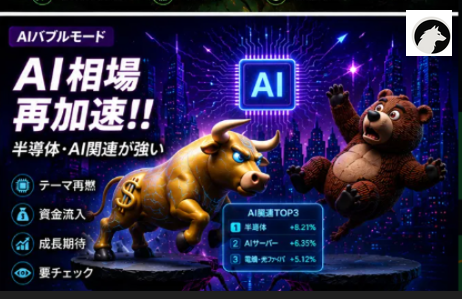
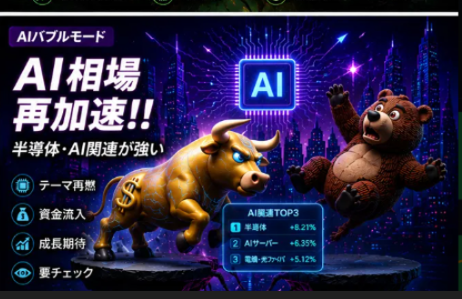
feat: 値動きが大きい日はロゴを特別演出にする
banner画像は元の状態(ロゴなし)に戻し、代わりにgenerate_banner()で
実行時にロゴを合成する方式に変更。通常は右上に小さく表示、日経の
値動きが±3%以上の日だけロゴを大きく・グローさせた特別版にする
(「オオカミがたまに参加している」演出)。

Changed region(s): [[0.8788, 0.0301, 1.0, 0.2107]]

diff --git a/scripts/morning_briefing.py b/scripts/morning_briefing.py
@@ -23,7 +23,7 @@ matplotlib.use("Agg")
 import matplotlib.pyplot as plt
 import matplotlib.font_manager as fm
 from matplotlib.gridspec import GridSpec
-from PIL import Image, ImageDraw, ImageFont
+from PIL import Image, ImageDraw, ImageFont, ImageFilter
  
 # Constants
 JST     = timezone(timedelta(hours=9))
@@ -634,6 +634,32 @@ def generate_chart(data, mode):
  
  
 
+LOGO_PATH = "public/logo.png"
+
+
+def _composite_logo(im, special):
+    """バナー右上にかぶぼっちの狼ロゴを合成する。special=Trueの日（値動きが
+    大きい日）はロゴを大きく・グローさせて「オオカミが参加している」特別演出にする。"""
+    if not os.path.exists(LOGO_PATH):
+        return im
+    logo = Image.open(LOGO_PATH).convert("RGBA")
+    W, H = im.size
+    size = 84 if special else 46
+    margin = 10
+    logo = logo.resize((size, size), Image.LANCZOS)
+    pos = (W - size - margin, margin)
+
+    if special:
+        glow_pad = 20
+        glow = Image.new("RGBA", (size + glow_pad * 2, size + glow_pad * 2), (0, 0, 0, 0))
+        ImageDraw.Draw(glow).ellipse([0, 0, glow.width, glow.height], fill=(255, 215, 90, 170))
+        glow = glow.filter(ImageFilter.GaussianBlur(9))
+        im.alpha_composite(glow, (pos[0] - glow_pad, pos[1] - glow_pad))
+
+    im.alpha_composite(logo, pos)
+    return im
+
+
 def generate_banner(data, mode):
     banner_map = {
         "normal": "public/banners/normal.png",
@@ -644,7 +670,13 @@ def generate_banner(data, mode):
     banner_path = banner_map.get(mode)
     if banner_path and os.path.exists(banner_path):
         with open(banner_path, "rb") as f:
-            buf = io.BytesIO(f.read())
+            im = Image.open(io.BytesIO(f.read())).convert("RGBA")
+        # 日経の値動きが±3%以上の日だけ「オオカミ参加」特別演出にする。
+        # 滅多に起きない条件に絞ることで特別感を保つ。
+        pct = data.get("pct", 0) or 0
+        im = _composite_logo(im, special=abs(pct) >= 3.0)
+        buf = io.BytesIO()
+        im.save(buf, format="PNG")
         buf.seek(0)
         return buf
 
